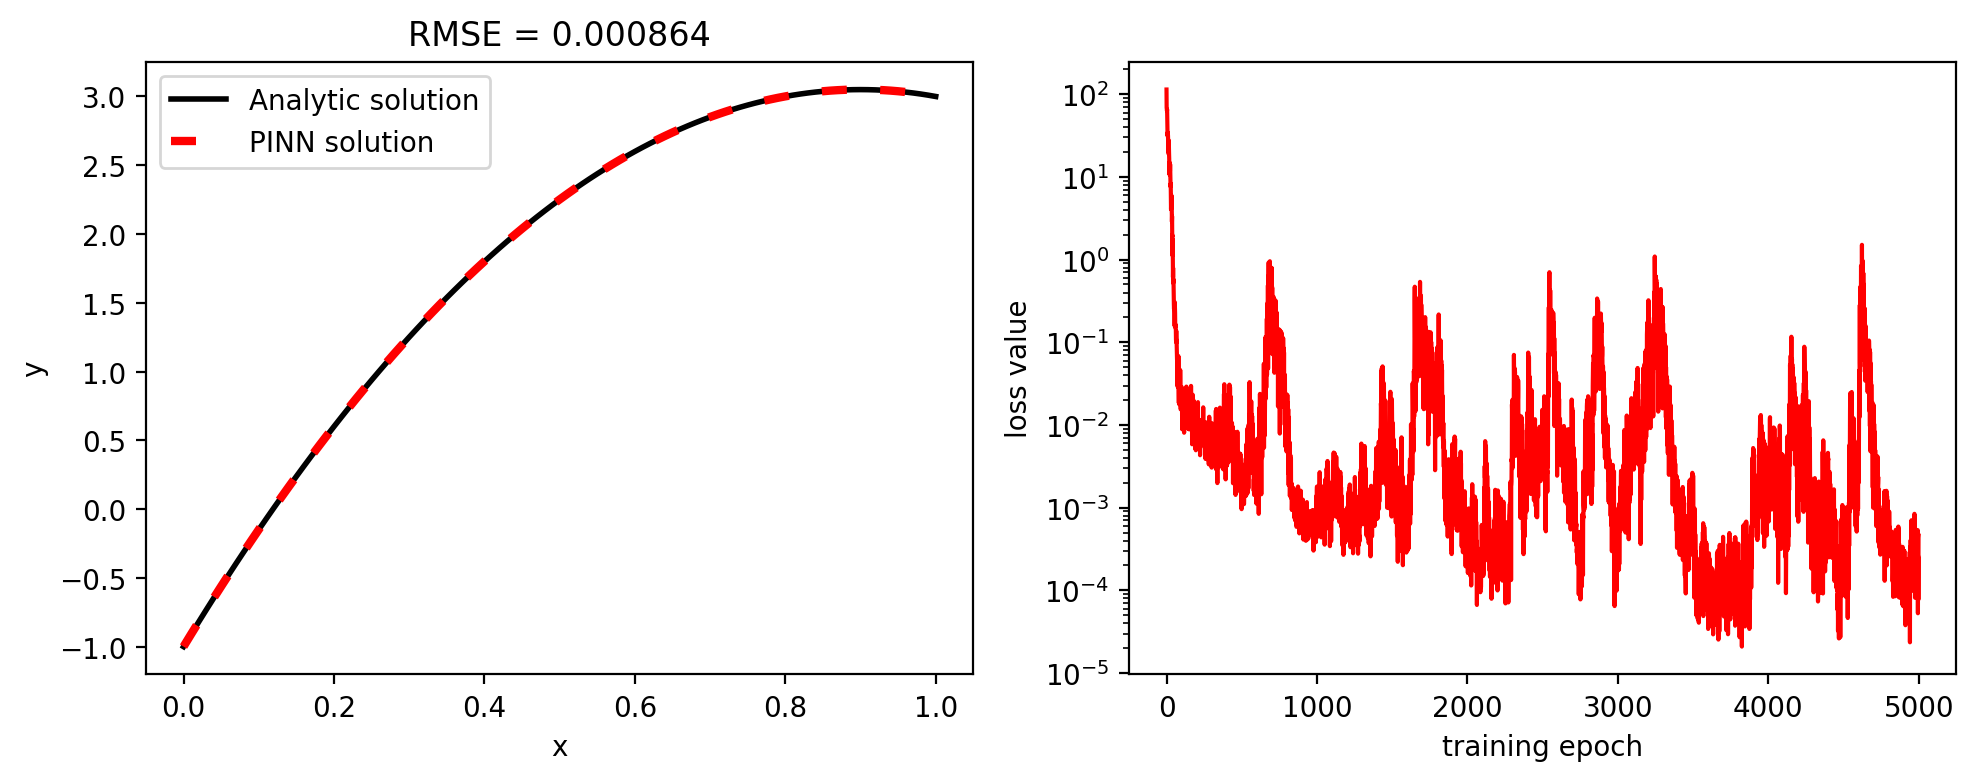
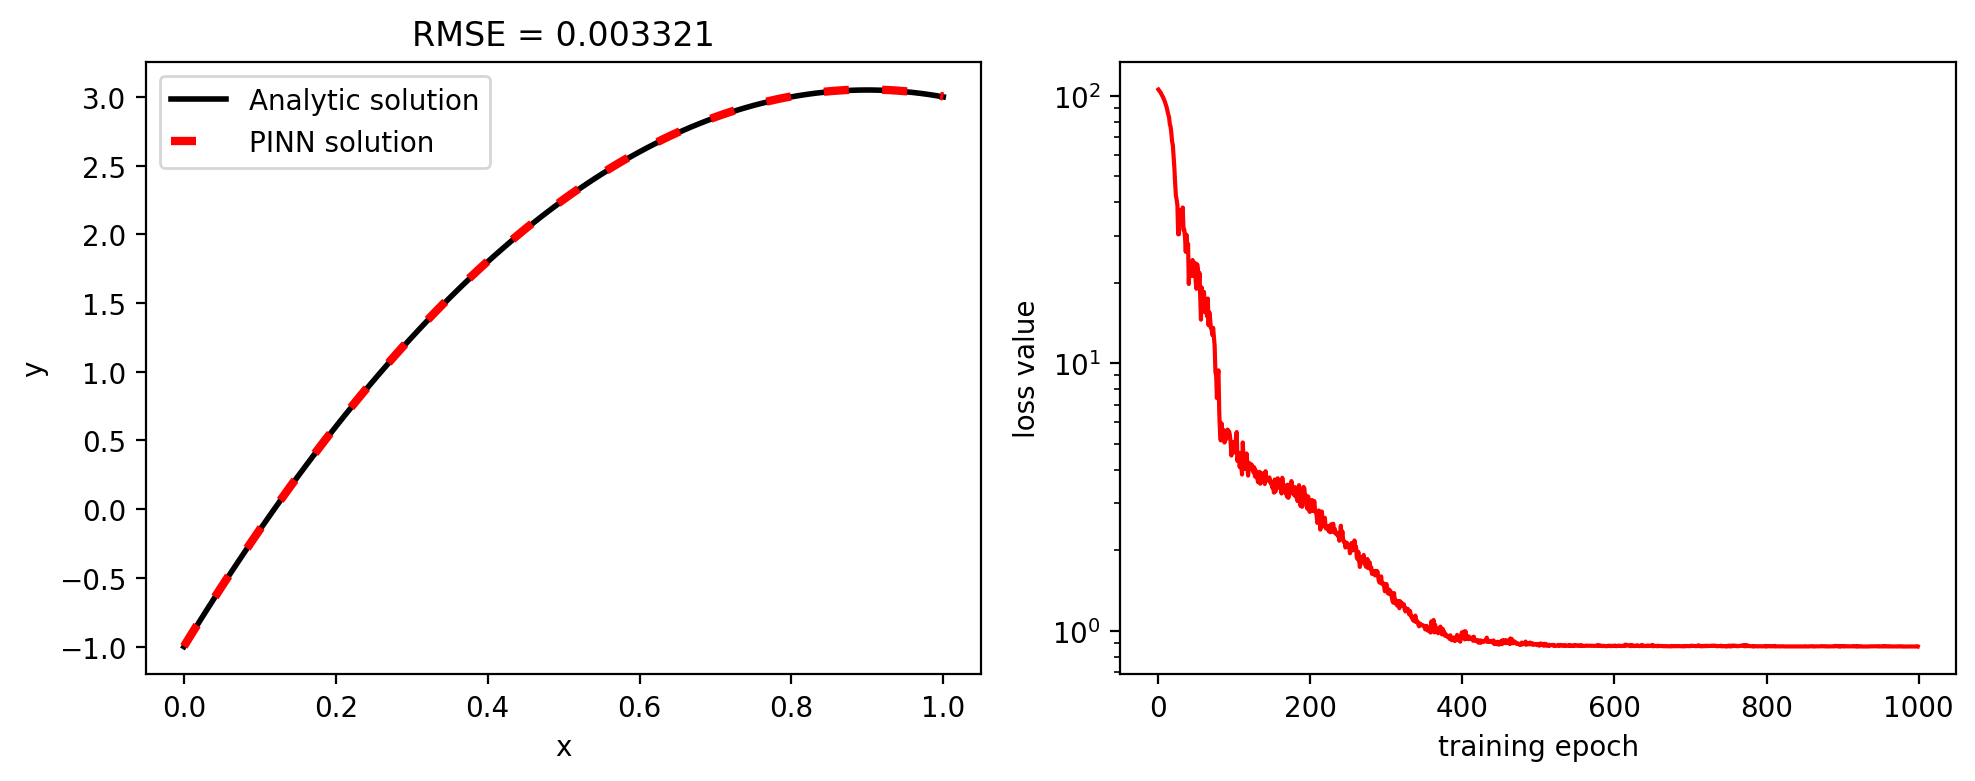
rerun experiments and update readme due to the improvement in the loss function

diff --git a/README.md b/README.md
@@ -111,22 +111,22 @@ optional arguments:
 ### Experiment 1
 PINN with an input layer, $3$ hidden layers with $50$ units per each hidden layer, and an output layer. Optimization is performed using stochastic gradient descent algorithm with momentum using a learning rate of $0.001$.
 ```shell
-$ python poisson.py --cuda --domain -1 1 --boundary_conditions -1 3 --rhs -7 --n_layers 3 --n_units 100 --activation tanh --optimizer sgd --n_epochs 1000 --batch_size 32 --linspace --learning_rate 1e-3 --save_fig experiment_1
+$ python poisson.py --cuda --domain 0 1 --boundary_conditions -1 3 --rhs -7 --n_layers 3 --n_units 100 --activation tanh --optimizer sgd --n_epochs 1000 --batch_size 32 --linspace --learning_rate 1e-3 --save_fig experiment_1
 ```
 ![experiment_1](figs/experiment_1.png)
 
 ### Experiment 2
 Unlike the previous experiment, here the batch contains $101$ data points randomly spaced over the solution domain.
-For this experiment, ADAM optimization is performed over $5000$ epochs.
+For this experiment, ADAM optimization is performed over $1000$ epochs.
 ```shell
-$ python poisson.py --cuda --domain 0 1 --boundary_conditions -1 3 --rhs -10 --n_layers 3 --n_units 50 --activation tanh --optimizer adam --n_epochs 5000 --batch_size 101 --learning_rate 1e-3 --save_fig experiment_2
+$ python poisson.py --cuda --domain 0 1 --boundary_conditions -1 3 --rhs -10 --n_layers 3 --n_units 50 --activation tanh --optimizer adam --n_epochs 1000 --batch_size 101 --learning_rate 1e-3 --save_fig experiment_2
 ```
 ![experiment_2](figs/experiment_2.png)
 
 ### Experiment 3
 Repeating the previous experiment only instead by applying adaptive activation functions and slope-recovery term into the loss function.
 ```shell
-$ python poisson.py --cuda --domain 0 1 --boundary_conditions -1 3 --rhs -10 --n_layers 3 --n_units 50 --activation tanh --optimizer adam --n_epochs 5000 --batch_size 101 --learning_rate 1e-3 --adaptive_rate 0.3 --save_fig experiment_3
+$ python poisson.py --cuda --domain 0 1 --boundary_conditions -1 3 --rhs -10 --n_layers 3 --n_units 50 --activation tanh --optimizer adam --n_epochs 1000 --batch_size 101 --learning_rate 1e-3 --adaptive_rate 0.1 --adaptive_rate_scaler 10 --save_fig experiment_3
 ```
 ![experiment_3](figs/experiment_3.png)
 
@@ -139,7 +139,7 @@ For this experiment, instead of gradient-based optimizers, L-BFGS-B optimizer is
 Since L-BFGS-B uses an automatically differentiated inverse Hessian matrix to steer its search through parameter space, the adaptive activation functions are not necessary (check the paper).
 The number of epochs is lower considerably than in previous experiments.
 ```shell
-$ python poisson.py --cuda --domain 0 1 --boundary_conditions -1 3 --rhs -10 --n_layers 3 --n_units 100 --activation tanh --optimizer bfgs --n_epochs 100 --batch_size 101 --dropout_rate 0.01 --apply_mcdropout --save_fig experiment_4 
+$ python poisson.py --cuda --domain 0 1 --boundary_conditions -1 3 --rhs -10 --n_layers 3 --n_units 100 --activation tanh --optimizer bfgs --n_epochs 50 --batch_size 32 --linspace --dropout_rate 0.01 --apply_mcdropout --save_fig experiment_4
 ```
 ![experiment_3](figs/experiment_4.png)
 
